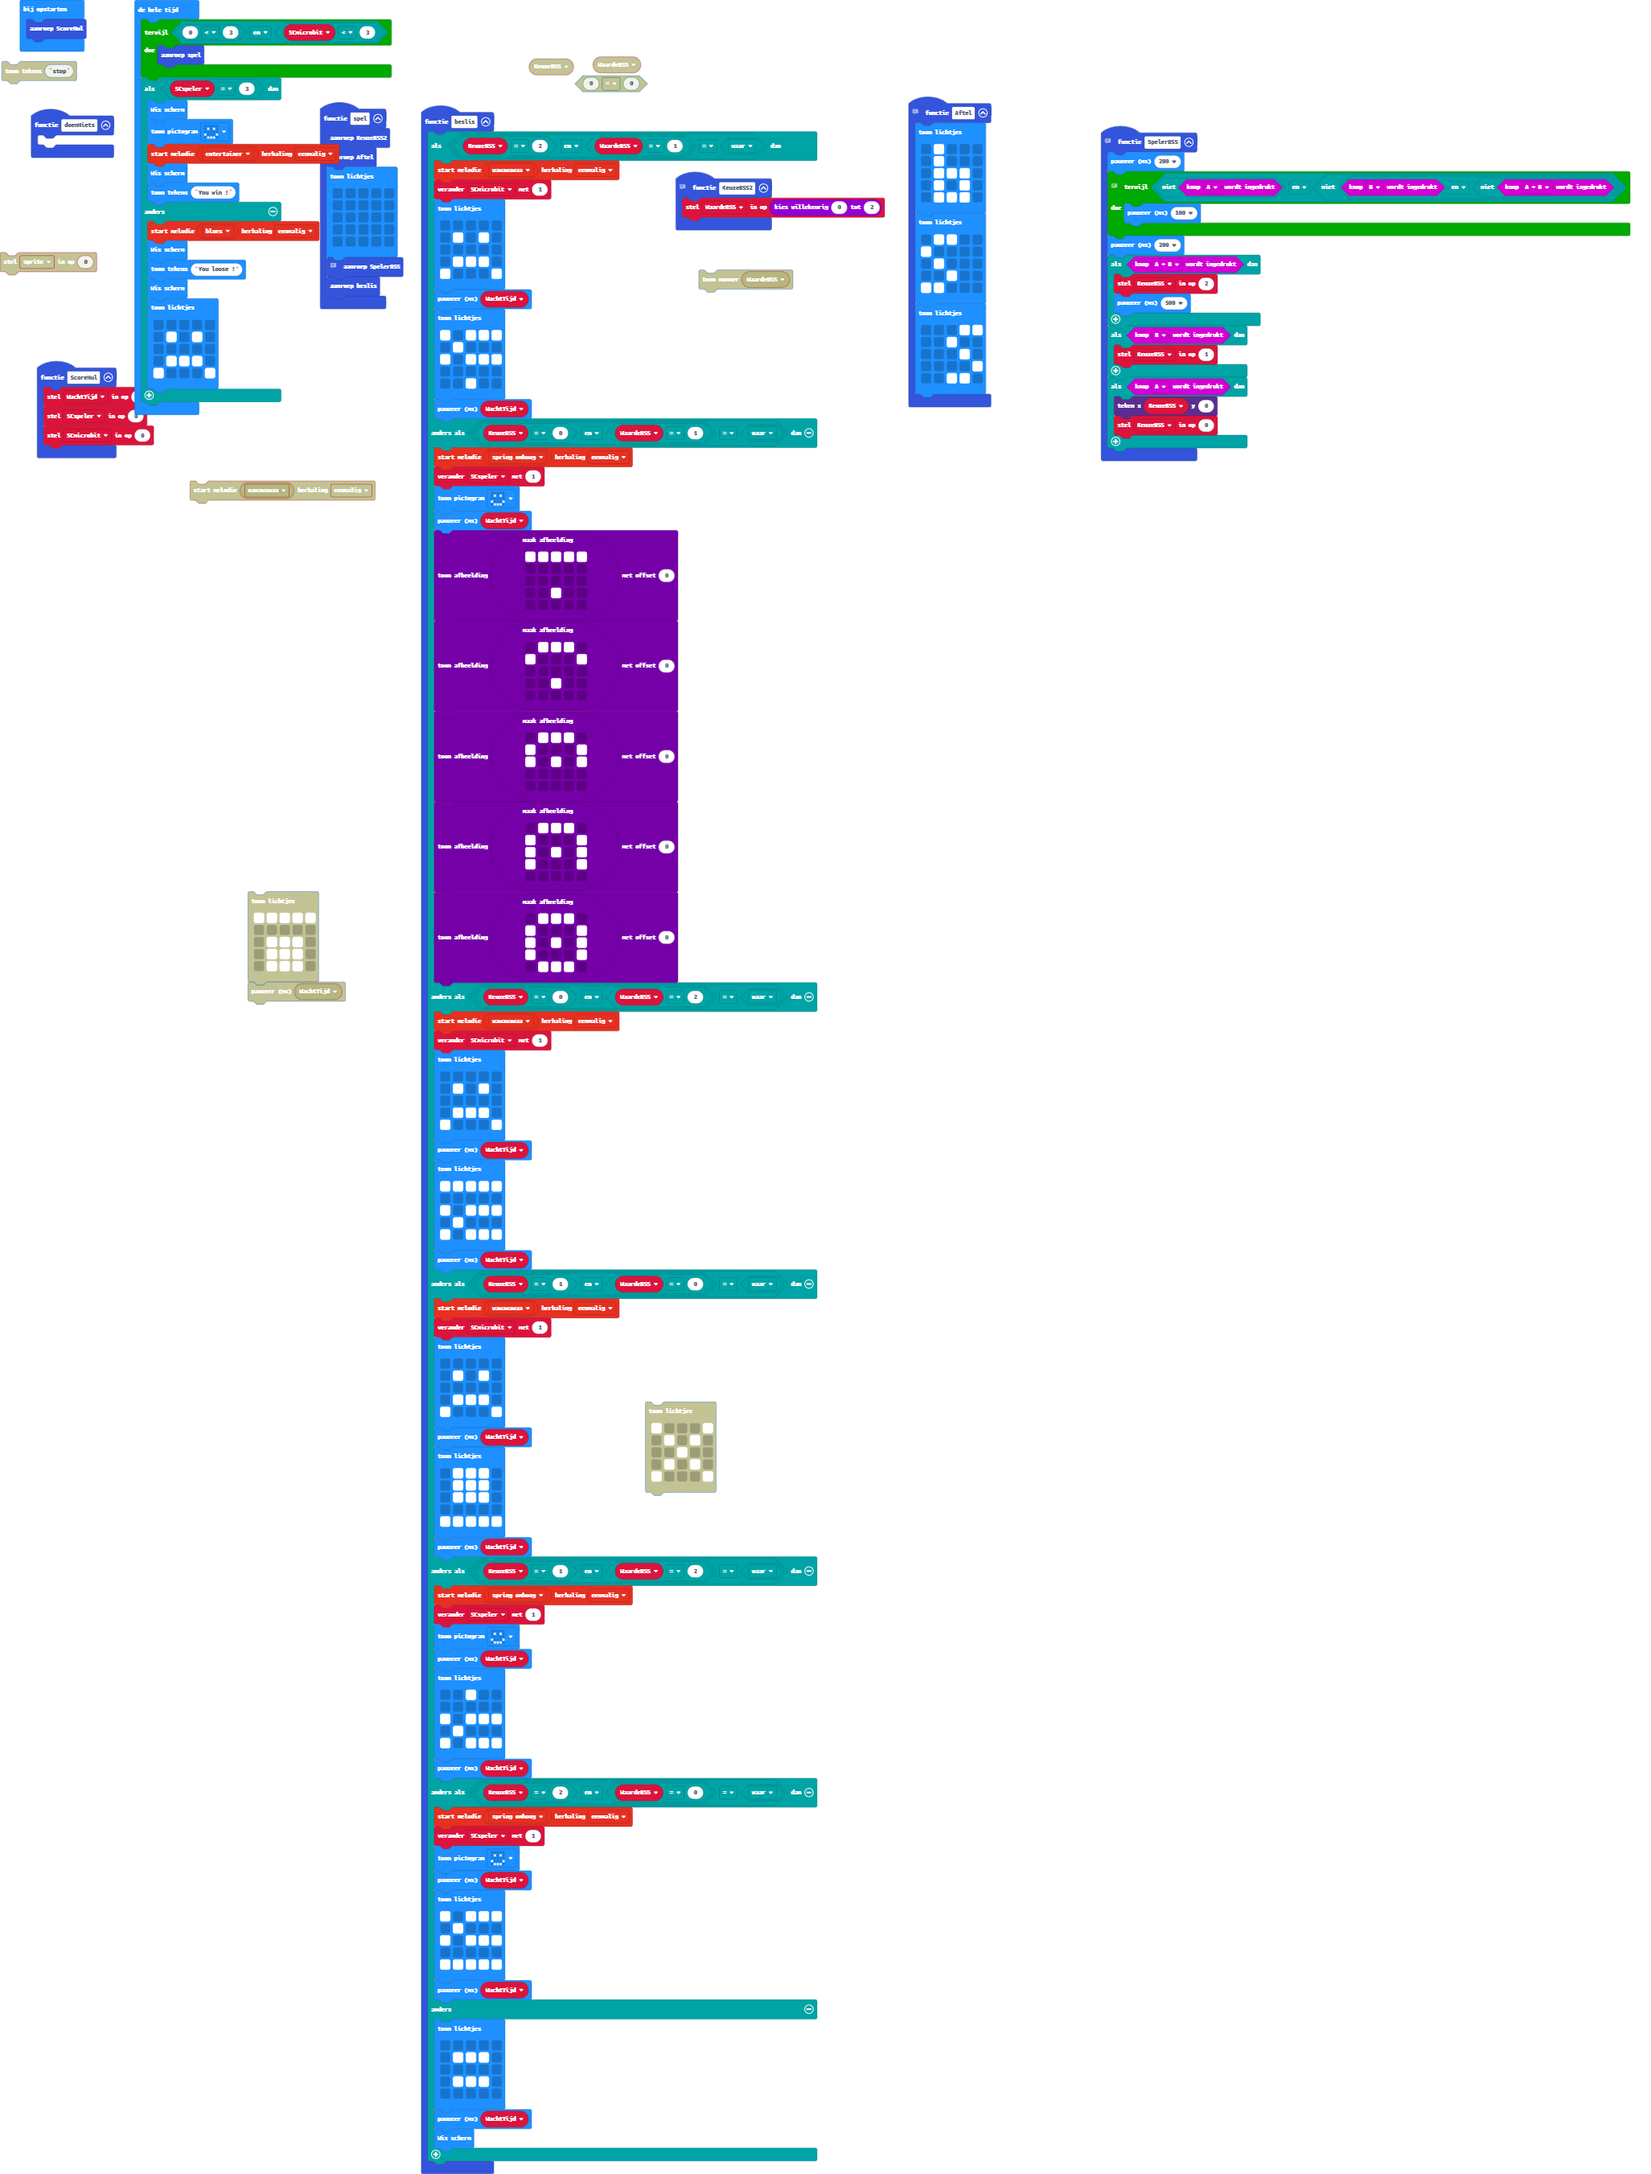
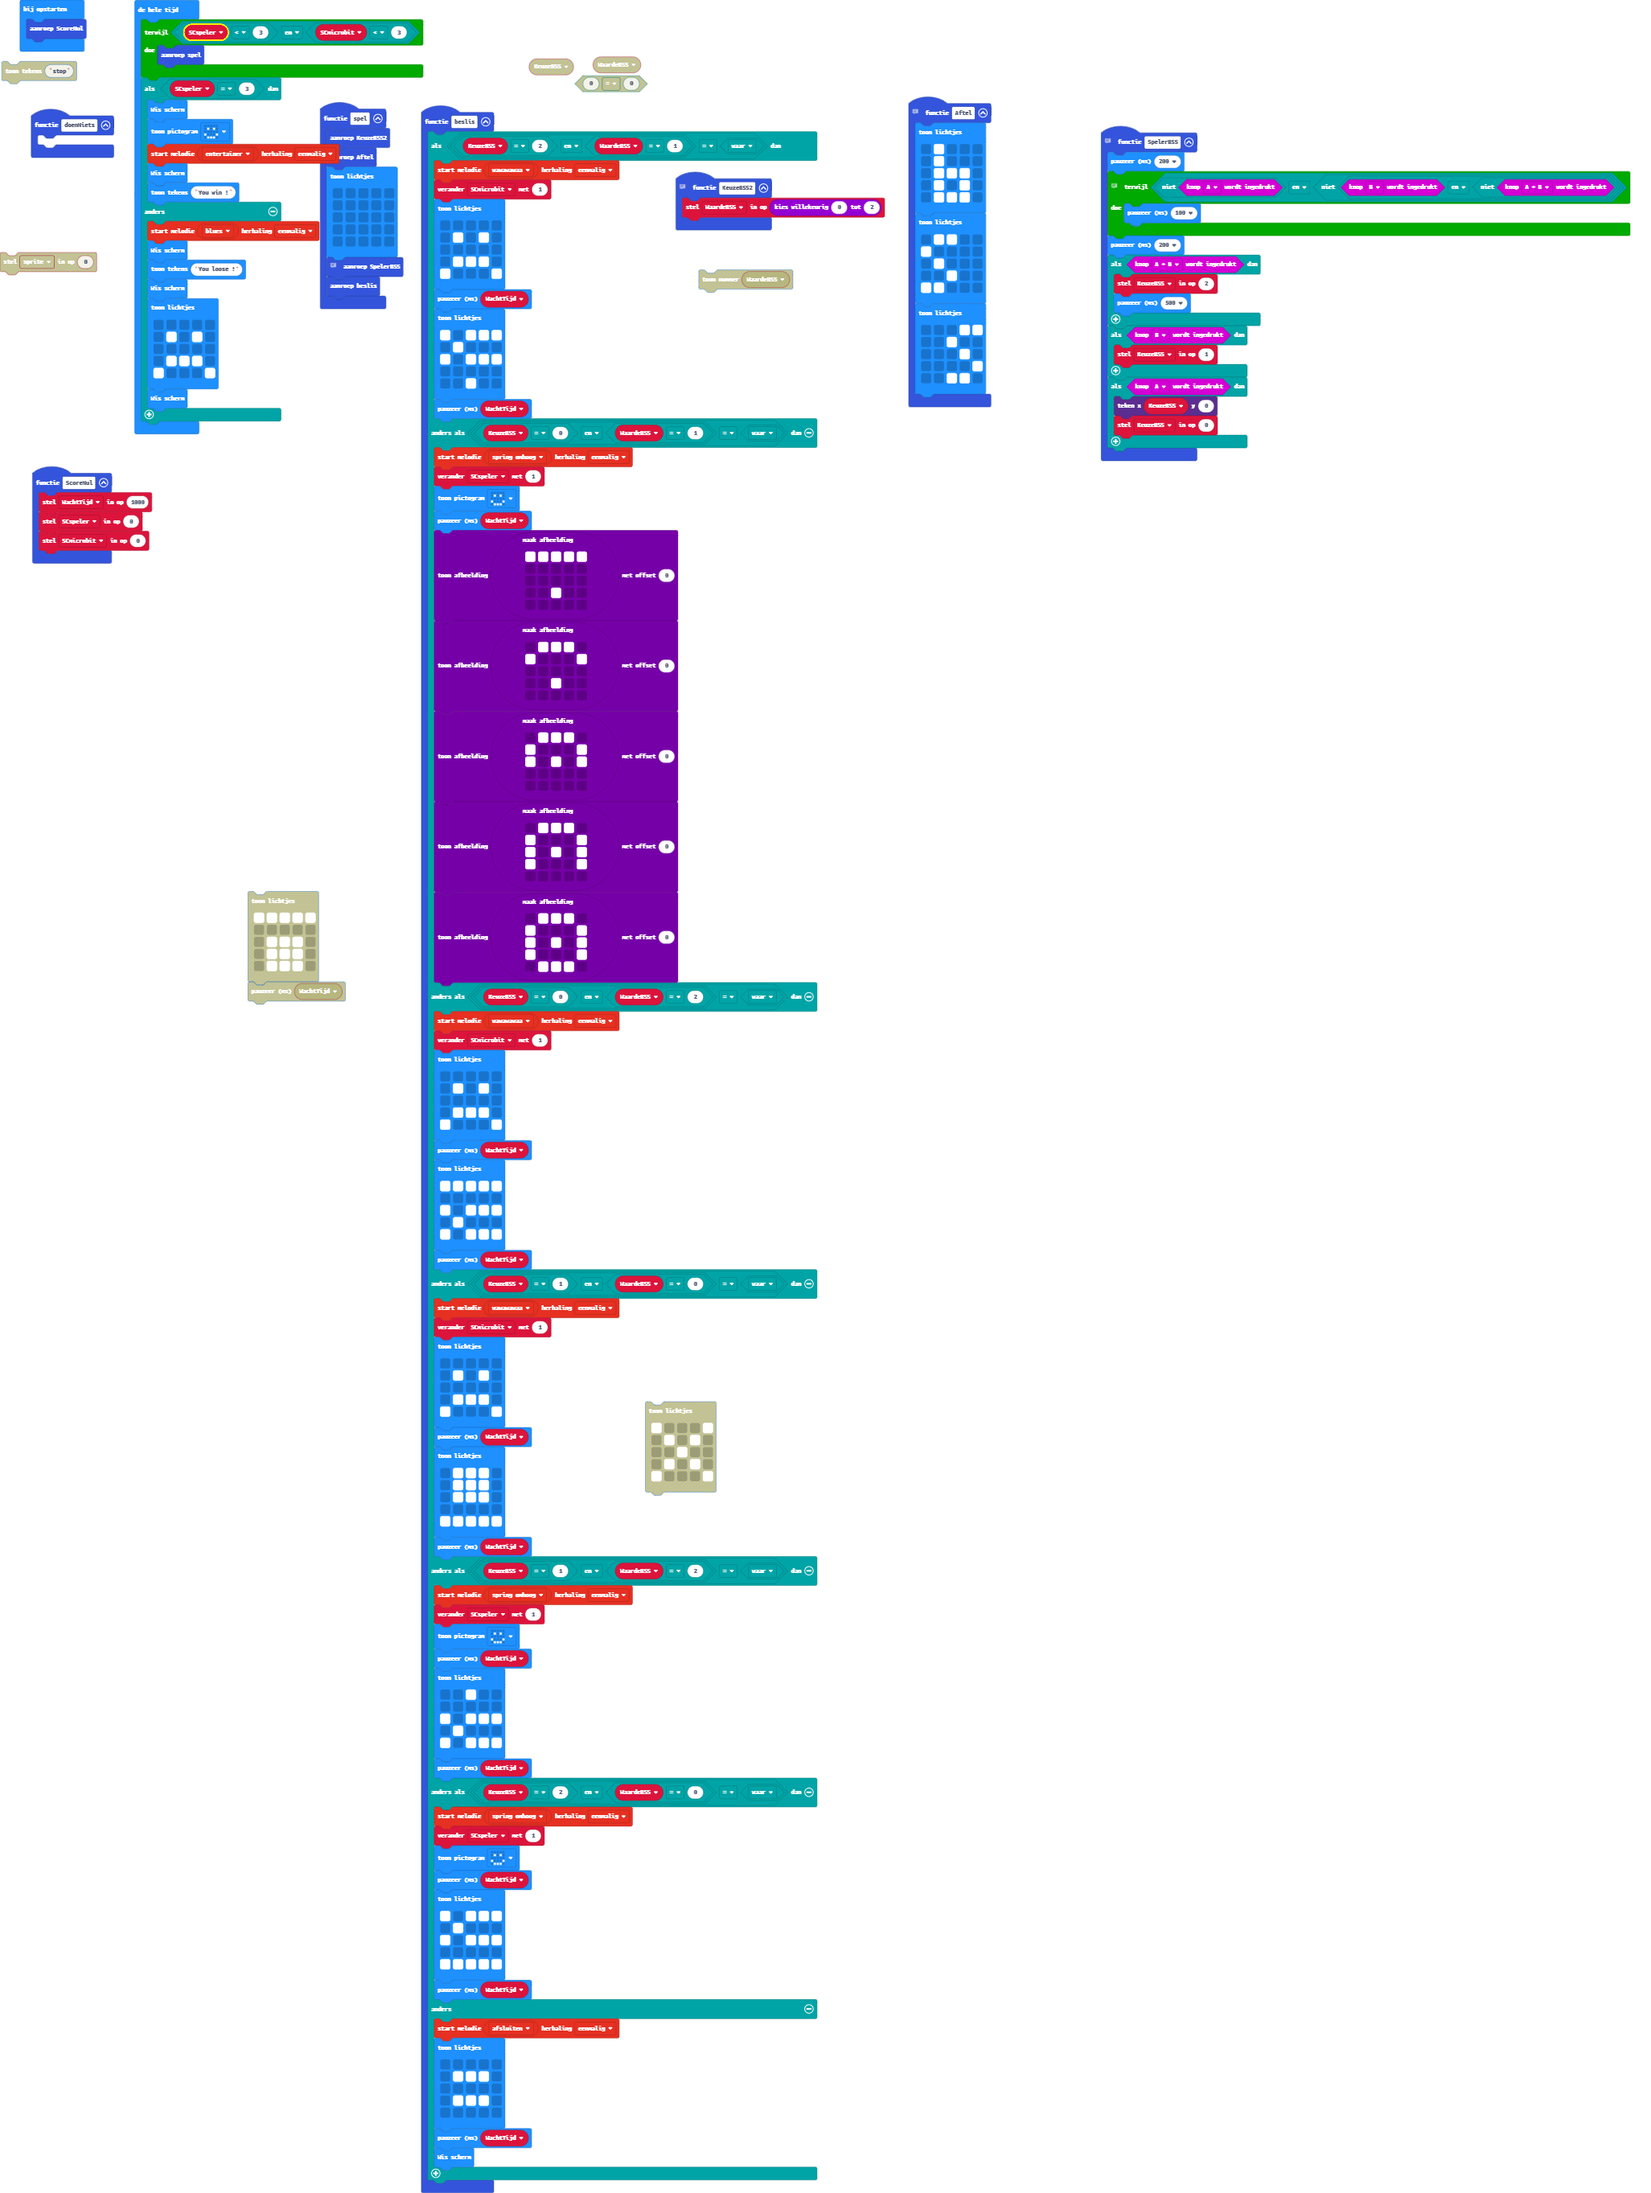
Update main.blocks, main.ts

diff --git a/main.ts b/main.ts
@@ -193,6 +193,7 @@ function beslis () {
             `)
         basic.pause(WachtTijd)
     } else {
+        music.startMelody(music.builtInMelody(Melodies.PowerDown), MelodyOptions.Once)
         basic.showLeds(`
             . . . . .
             . # # # .
@@ -211,7 +212,7 @@ let WaardeBSS = 0
 let KeuzeBSS = 0
 ScoreNul()
 basic.forever(function () {
-    while (0 < 3 && SCmicrobit < 3) {
+    while (SCspeler < 3 && SCmicrobit < 3) {
         spel()
     }
     if (SCspeler == 3) {
@@ -232,5 +233,6 @@ basic.forever(function () {
             . # # # .
             # . . . #
             `)
+        basic.clearScreen()
     }
 })
